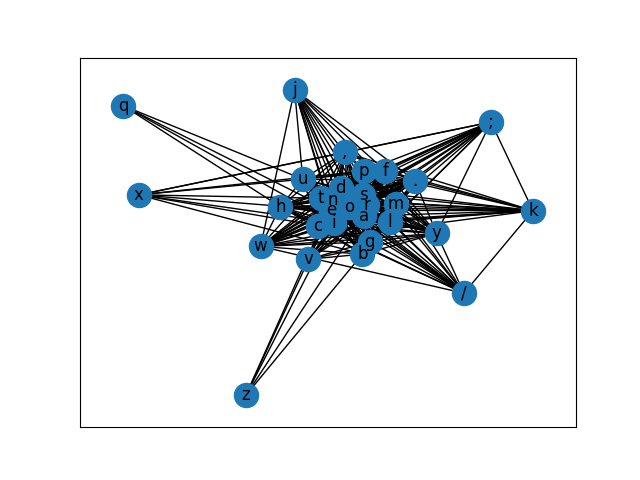
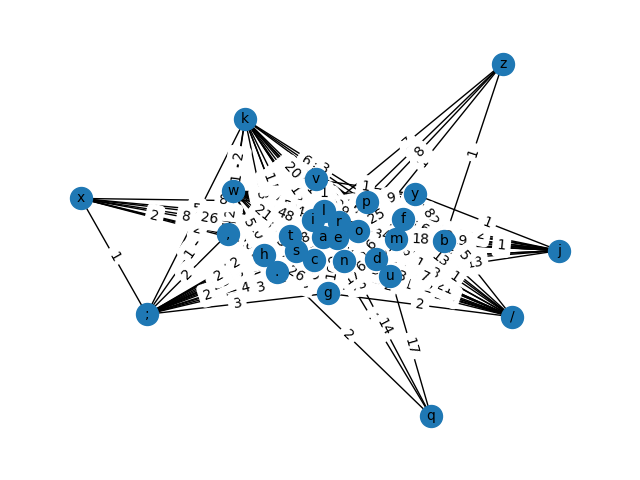
Fixed graph issues in networkx Currently using the spring_layout; shows the least frequent chars

diff --git a/GraphVisualization.py b/GraphVisualization.py
@@ -29,7 +29,7 @@ class GraphVisualization:
 		G = nx.Graph()
 		G.add_weighted_edges_from(self.visual)
 		edge_labels = nx.get_edge_attributes(G, "weight")
-		pos = nx.spiral_layout(G)
+		pos = nx.spring_layout(G, seed=7)
 
 		# Draw the nodes
 		nx.draw_networkx_nodes(G, pos, node_size=250)
